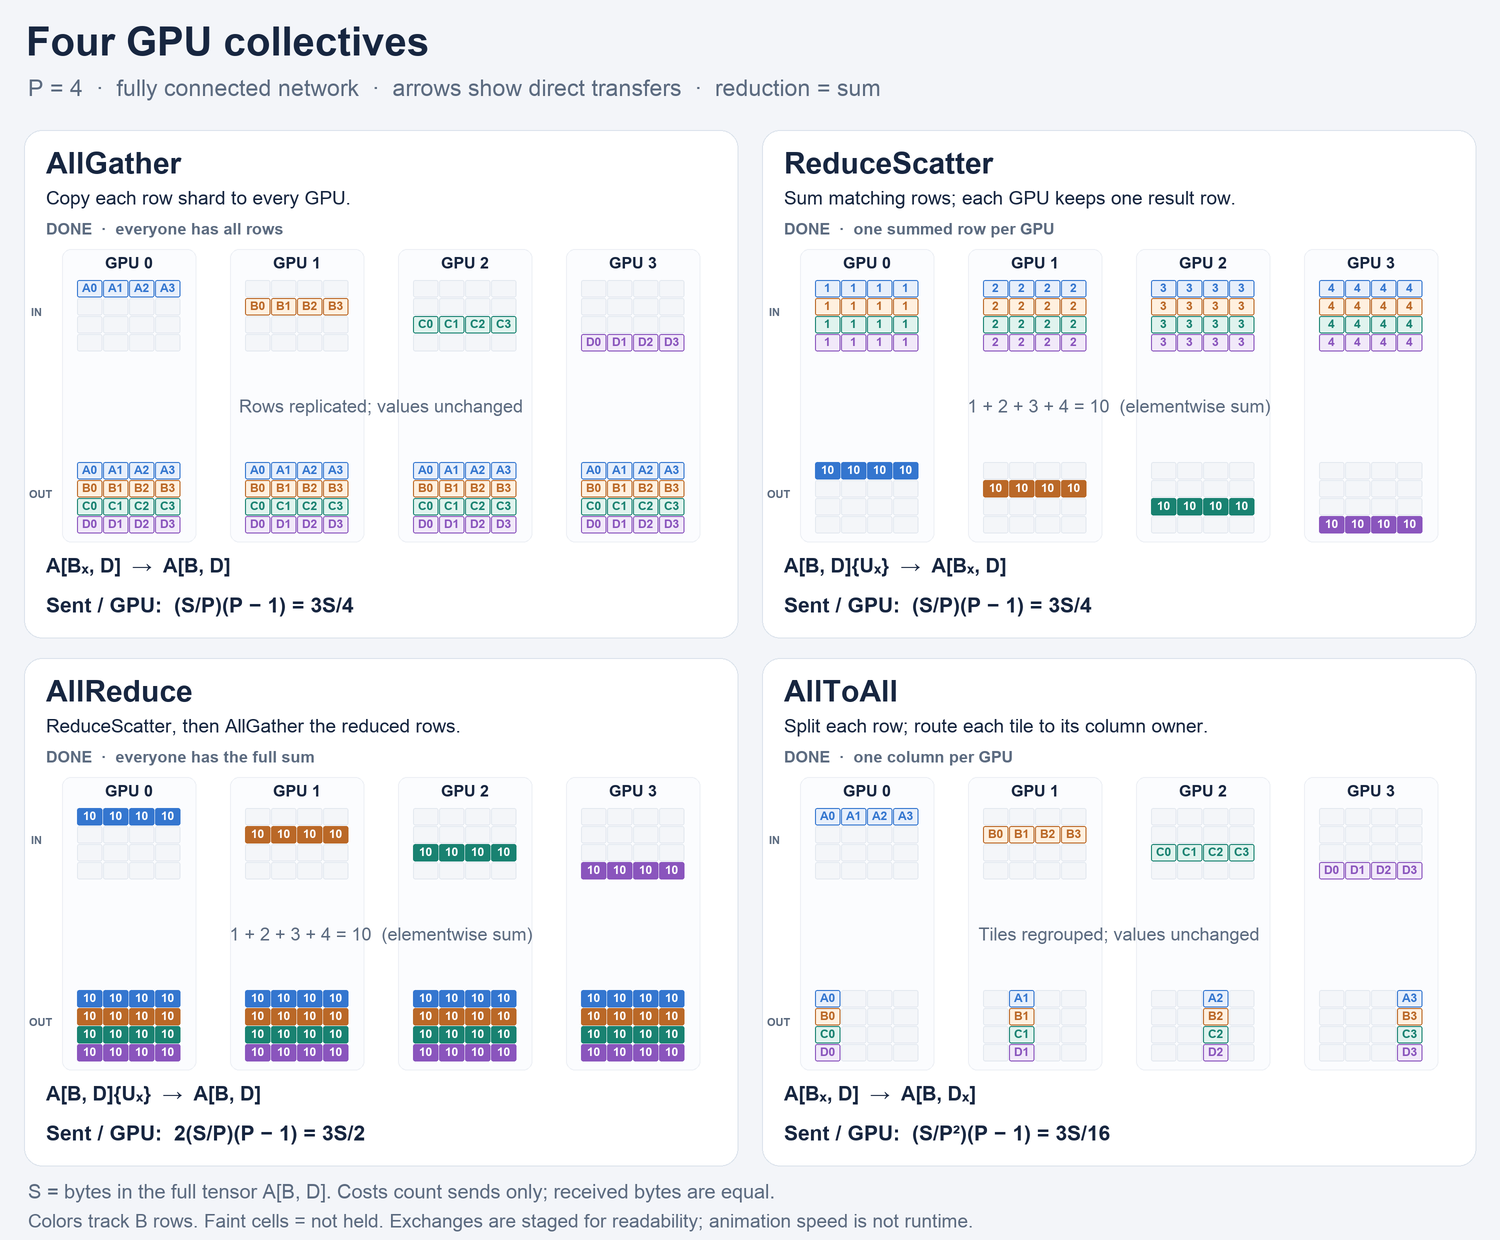
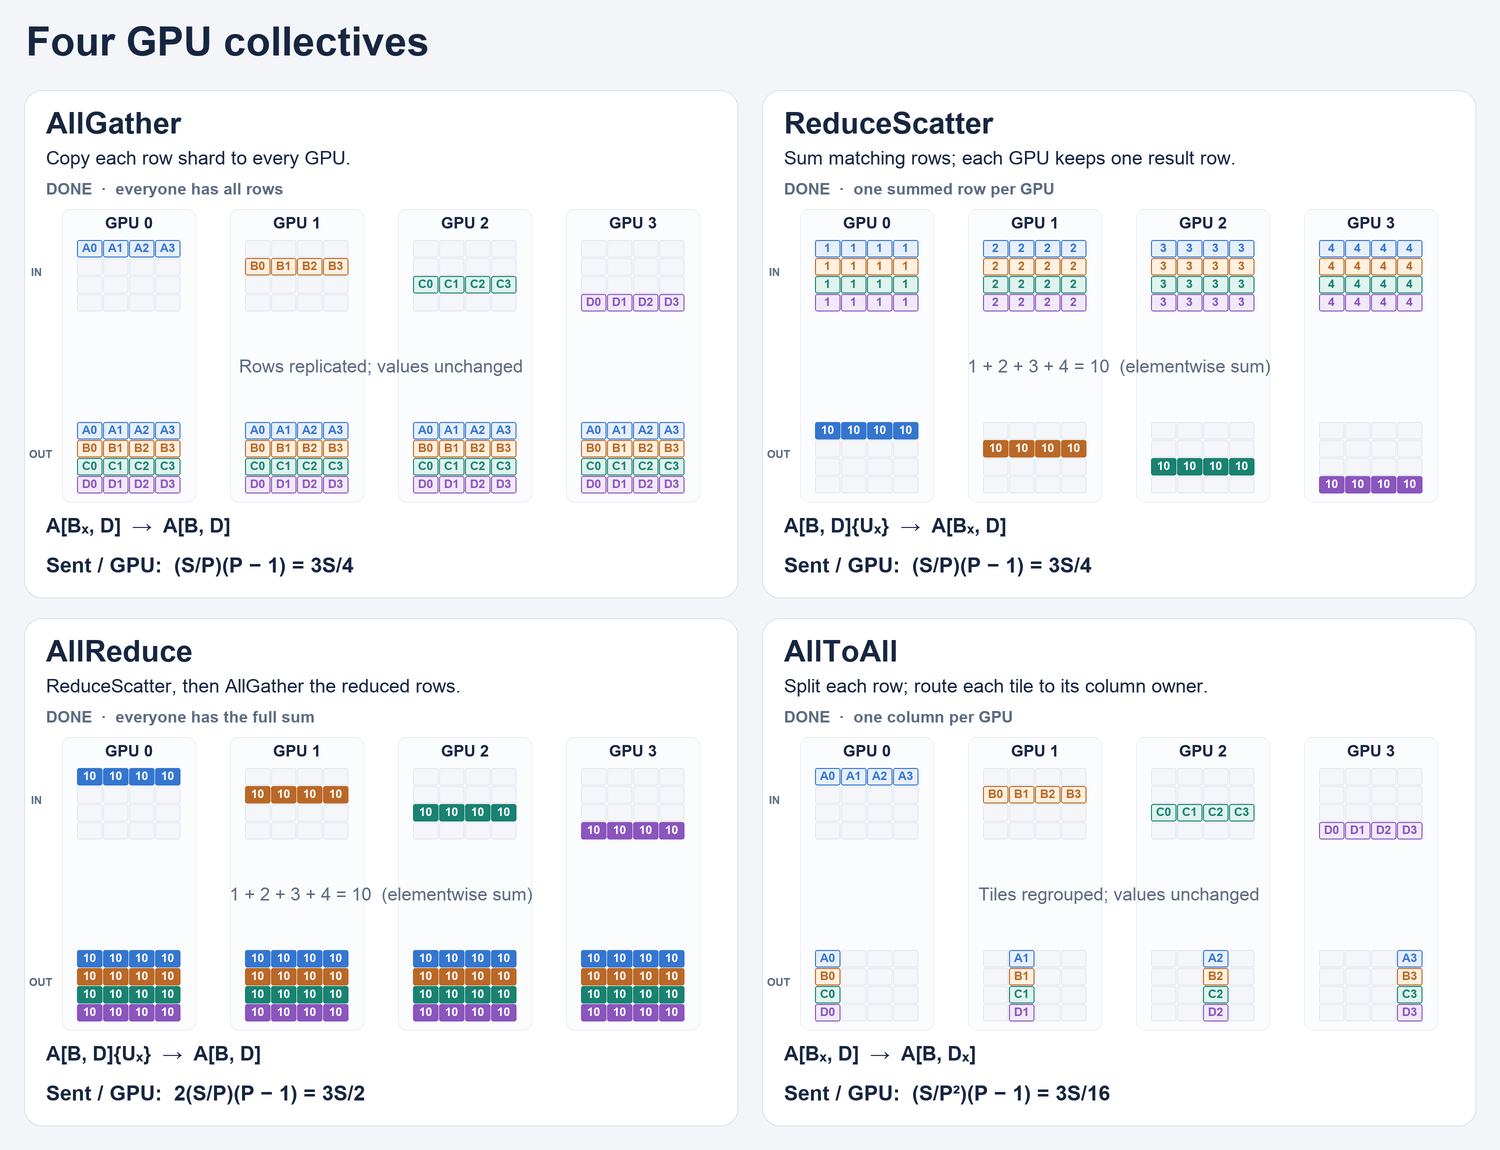
Add Some Nice Diagrams

diff --git a/src/styles/global.css b/src/styles/global.css
@@ -446,14 +446,14 @@ sup a:hover {
 
 /* Deixis endnotes: compact references with hanging numbers. */
 .prose ol.deixis-notes {
-  margin: 1rem 0;
+  margin: 0.25rem 0 1rem;
   padding: 0;
   font-size: 0.9em;
-  line-height: 1.6;
+  line-height: 1.35;
 }
 
 .prose ol.deixis-notes > li {
-  margin: 0.5em 0;
+  margin: 0.15em 0;
   padding-left: 1.5em;
   text-indent: -1.5em;
 }

diff --git a/scripts/render_collective_gemms.py b/scripts/render_collective_gemms.py
@@ -1,0 +1,297 @@
+#!/usr/bin/env python3
+"""Animate four distinct tensor dataflows; requires Pillow >= 10.
+
+Weight-column gather, output-tile ring reduction, input-row fan-in, and
+receiver-pulled batch/sequence routing. Steps explain dependencies, not
+hardware timing. The article is intentionally not modified.
+"""
+from pathlib import Path
+import math
+from PIL import Image, ImageDraw
+from render_collective_primitives import BG, INK, LINE, MUTED, PALE, ROW, SCALE, arrow, box, line, text
+
+ROOT = Path(__file__).resolve().parents[1]
+OUT = ROOT / "content" / "img"
+W, H = 1440, 850
+HEADER_SHIFT = 32
+TITLES = ["AllGather → GEMM", "GEMM → ReduceScatter", "ReduceScatter → GEMM", "AllToAll → GEMM"]
+DURATIONS = [4.0, 5.0, 5.0, 4.0]
+
+
+def clamp(x):
+    return min(1, max(0, x))
+
+
+def label(d, xy, value, color=INK, size=18, center=False):
+    text(d, xy, value, size, color, bold=True, center=center)
+
+
+def tile(d, x, y, w, h, color, value, active=False, faint=False):
+    fill = "#f3f5f8" if faint else color if active else PALE[ROW.index(color)]
+    box(d, (x, y, x + w - 2, y + h - 2), fill, LINE if faint else color, radius=3)
+    text(d, (x + w / 2 - 1, y + (h - 17) / 2 - 1), value, 14,
+         "#99a4b3" if faint else "#ffffff" if active else color, bold=True, center=True)
+
+
+def matrix(d, x, y, rows, cols, values, color_axis="row", highlight=None, cw=36, ch=29):
+    for r in range(rows):
+        for c in range(cols):
+            color = ROW[(r if color_axis == "row" else c) % 4]
+            value = values.get((r, c))
+            tile(d, x + c * cw, y + r * ch, cw, ch, color,
+                 "" if value is None else str(value),
+                 active=highlight is not None and (r if color_axis == "row" else c) == highlight and value is not None,
+                 faint=value is None)
+
+
+def fixed_matrix(d, x, y, rows, cols, value, cw=36, ch=29):
+    for r in range(rows):
+        for c in range(cols):
+            left, top = x + c * cw, y + r * ch
+            box(d, (left, top, left + cw - 2, top + ch - 2), "#e9edf3", "#bac5d3", radius=3)
+            text(d, (left + cw / 2 - 1, top + (ch - 17) / 2 - 1), value, 14, MUTED, bold=True, center=True)
+
+
+def dashed_arrow(d, start, end, color):
+    dx, dy = end[0] - start[0], end[1] - start[1]
+    length = math.hypot(dx, dy)
+    for s in range(0, int(length) - 10, 16):
+        a, b = s / length, min(s + 8, length - 10) / length
+        line(d, [(start[0] + dx * a, start[1] + dy * a),
+                 (start[0] + dx * b, start[1] + dy * b)], color, 2)
+    arrow(d, (end[0] - dx * 12 / length, end[1] - dy * 12 / length), end, color)
+
+
+def packet(d, start, end, progress, value, color, w=112, h=27):
+    u = clamp(progress)
+    u = u * u * (3 - 2 * u)
+    x = start[0] + (end[0] - start[0]) * u
+    y = start[1] + (end[1] - start[1]) * u
+    box(d, (x - w / 2 - 3, y - h / 2 - 3, x + w / 2 + 3, y + h / 2 + 3), "#ffffff", radius=5)
+    box(d, (x - w / 2, y - h / 2, x + w / 2, y + h / 2), color, radius=4)
+    text(d, (x, y - 10), value, 15, "#ffffff", bold=True, center=True)
+
+
+def status(d, first):
+    box(d, (48, 784, 1392, 840), "#edf2f9", radius=10)
+    label(d, (67, 795), first, size=21)
+
+
+def gemm_badge(d, x, y, message, progress):
+    box(d, (x, y, x + 196, y + 61), "#fff4e8", ROW[1], radius=8)
+    label(d, (x + 98, y + 8), message, ROW[1], 18, True)
+    box(d, (x + 12, y + 44, x + 184, y + 49), "#ecd8c0", radius=2)
+    if progress > 0:
+        box(d, (x + 12, y + 44, x + 12 + 172 * clamp(progress), y + 49), ROW[1], radius=2)
+
+
+def allgather_gemm(d, t):
+    j = min(3, int(t))
+    frac = t % 1 if t < 4 else 1
+    for g, sx in enumerate([540, 865, 1190], 1):
+        box(d, (sx - 104, 282, sx + 104, 391), "#fbfcfe", LINE, radius=8)
+        label(d, (sx, 292), "GPU {} owns B{}".format(g, g), center=True)
+        for r in range(4):
+            tile(d, sx - 50, 325 + r * 12, 100, 12, ROW[g], "")
+    box(d, (50, 440, 1390, 752), "#fbfcfe", LINE, radius=12)
+    label(d, (72, 453), "GPU 0", size=20)
+    label(d, (177, 504), "A local", center=True)
+    fixed_matrix(d, 105, 541, 2, 4, "a", cw=36, ch=43)
+    label(d, (293, 566), "×", size=32)
+    label(d, (503, 497), "B cache", center=True)
+    matrix(d, 431, 530, 4, 4, {(r, c): "b" + str(c) for r in range(4) for c in range(4) if c <= min(3, int(t))},
+           color_axis="col", highlight=j if t < 4 else None)
+    label(d, (177, 647), "[B_0, D]", center=True)
+    label(d, (503, 668), "[D, F] — growing by columns", center=True)
+    arrow(d, (615, 581), (702, 581), MUTED)
+    gemm_badge(d, 710, 551, "GEMM C" + str(j) if t < 4 else "GEMM finished", frac)
+    arrow(d, (918, 581), (998, 581), MUTED)
+    label(d, (1134, 504), "C local", center=True)
+    matrix(d, 1034, 541, 2, 4, {(r, c): "c" + str(c) for r in range(2) for c in range(4) if c < int(t)},
+           color_axis="col", cw=50, ch=43)
+    if t < 4:
+        for r in range(2):
+            box(d, (1034 + j * 50, 541 + r * 43, 1082 + j * 50, 582 + r * 43), None, ROW[j], radius=3, width=3)
+    label(d, (1134, 647), "[B_0, F] — new columns", center=True)
+    if j < 3 and t < 4:
+        g = j + 1
+        start, end = ([540, 865, 1190][g - 1], 390), (431 + g * 36 + 18, 522)
+        arrow(d, start, end, ROW[g])
+        packet(d, start, end, frac, "B{}: D × F{}".format(g, g), ROW[g])
+    status(d, "Compute C{} from B{}{}".format(j, j, " while B{} arrives.".format(j + 1) if j < 3 and t < 4 else "."))
+
+
+RING_POS = [(95, 295), (1010, 295), (1010, 584), (95, 584)]
+RING_PATHS = [((426, 375), (1004, 375)), ((1173, 471), (1173, 578)),
+              ((1004, 664), (426, 664)), ((258, 578), (258, 471))]
+
+
+def ring_value(gpu, hop):
+    return sum((gpu - k) % 4 + 1 for k in range(hop + 1))
+
+
+def gemm_reducescatter(d, t):
+    col = min(3, int(t))
+    for g, (x, y) in enumerate(RING_POS):
+        box(d, (x, y, x + 326, y + 176), "#fbfcfe", LINE, radius=10)
+        label(d, (x + 15, y + 10), "GPU {}: D-shard {}".format(g, g), size=18)
+        text(d, (x + 16, y + 40), "local partial C", 15, MUTED)
+        matrix(d, x + 16, y + 64, 4, 4,
+               {(r, c): g + 1 for r in range(4) for c in range(4) if t >= c + 1}, cw=30, ch=20)
+        text(d, (x + 171, y + 40), "summed row r" + str(g), 15, MUTED)
+        for c in range(4):
+            done = t >= c + 1.9
+            tile(d, x + 170 + c * 34, y + 88, 34, 29, ROW[g], "10" if done else "", active=done, faint=not done)
+        text(d, (x + 16, y + 150), "GEMM col {}{}".format(col, " running" if t < 4 else " finished"), 15, ROW[1], bold=True)
+    for start, end in RING_PATHS:
+        arrow(d, start, end, "#b5c2d4")
+    active = 1 <= t < 4.9 and (t - 1) % 1 < .9
+    if active:
+        sent_col = min(3, int(t - 1))
+        phase = (t - 1) % 1
+        hop = min(2, int(phase / .3))
+        p = (phase % .3) / .3
+        for g, (start, end) in enumerate(RING_PATHS):
+            owner = (g - hop - 1) % 4
+            packet(d, start, end, p, "r{},t{}: {}".format(owner, sent_col, ring_value(g, hop)), ROW[owner], w=132)
+        label(d, (720, 435), "Column {}: ring hop {}/3".format(sent_col, hop + 1), size=23, center=True)
+        text(d, (720, 477), "Each receiver adds its own partial.", 20, MUTED, center=True)
+        text(d, (720, 514), "1 + 2 + 3 + 4 = 10", 23, INK, bold=True, center=True)
+    else:
+        label(d, (720, 435), "Compute first, then launch each tile", size=22, center=True)
+        text(d, (720, 483), "Finished rows stay with their owner.", 19, MUTED, center=True)
+    status(d, "Stream partial outputs while GEMM computes the next column of tiles.")
+
+
+def reducescatter_gemm(d, t):
+    row = min(3, int(t))
+    frac = t % 1 if t < 4 else 1
+    for g in range(4):
+        x = 63 + 340 * g
+        box(d, (x, 284, x + 260, 389), "#fbfcfe", LINE, radius=8)
+        label(d, (x + 130, 294), "GPU {}{}".format(g, " (local)" if g == 0 else ""), center=True)
+        for c in range(4):
+            tile(d, x + 40 + c * 45, 338, 45, 30, ROW[row], str(g + 1))
+    label(d, (65, 418), "GPU 0 input T{}: peer contributions".format(row), size=19)
+    well = (383, 548)
+    count = 1 + int(frac >= .25) + int(frac >= .45) + int(frac >= .65)
+    if t >= 4:
+        count = 4
+    partial = sum(range(1, count + 1))
+    box(d, (267, 503, 499, 618), "#f0f5fc", ROW[row], radius=10)
+    label(d, (well[0], 514), "REDUCE T" + str(row), ROW[row], 21, True)
+    label(d, (well[0], 550), " + ".join(str(g) for g in range(1, count + 1)) + " = " + str(partial), size=22, center=True)
+    text(d, (well[0], 586), "elementwise across D", 16, MUTED, center=True)
+    if t < 4:
+        for g in range(1, 4):
+            start, end = (193 + 340 * g, 391), (well[0], 497)
+            arrow(d, start, end, ROW[row])
+            p = (frac - (g - 1) * .20) / .25
+            if 0 <= p < 1:
+                packet(d, start, end, p, "{} {} {} {}".format(g + 1, g + 1, g + 1, g + 1), ROW[row])
+    arrow(d, (509, 558), (665, 558), ROW[row])
+    label(d, (749, 456), "A reduced", center=True)
+    matrix(d, 679, 495, 4, 4, {(r, c): 10 for r in range(4) for c in range(4) if t >= r + .8},
+           highlight=int(t) - 1 if 1 <= t < 5 else None, cw=35, ch=33)
+    label(d, (868, 543), "×", size=30)
+    label(d, (960, 456), "B replicated", center=True)
+    fixed_matrix(d, 924, 495, 4, 2, "b", cw=36, ch=33)
+    arrow(d, (1013, 558), (1123, 558), MUTED)
+    label(d, (1210, 456), "C local rows", center=True)
+    matrix(d, 1164, 495, 4, 2, {(r, c): "c" + str(r) for r in range(4) for c in range(2) if t >= r + 2}, cw=46, ch=33)
+    compute_row = int(t) - 1
+    if 0 <= compute_row < 4:
+        gemm_badge(d, 840, 675, "GEMM T" + str(compute_row), t % 1)
+    label(d, (1050, 751), "Only GPU 0's batch shard is expanded here.", size=17, color=MUTED, center=True)
+    status(d, "Reduce input T{}{}".format(row, " while GEMM consumes already-reduced T{}.".format(compute_row) if 0 <= compute_row < 4 and t < 4 else " before GEMM uses it."))
+
+
+def alltoall_gemm(d, t):
+    j = min(3, int(t))
+    frac = t % 1 if t < 4 else 1
+    for g in range(4):
+        x = 63 + 340 * g
+        box(d, (x, 282, x + 260, 457), "#fbfcfe", LINE, radius=8)
+        label(d, (x + 130, 291), "GPU {} owns S{}".format(g, g), center=True)
+        for b in range(4):
+            tile(d, x + 54, 326 + b * 28, 152, 28, ROW[g], "B{}, S{}".format(b, g), active=b == 0, faint=b != 0)
+    box(d, (50, 532, 1390, 747), "#fbfcfe", LINE, radius=10)
+    label(d, (69, 543), "GPU 0 · B_0 owner", size=20)
+    label(d, (235, 582), "A[B_0, S, D]", center=True)
+    for s in range(4):
+        ready = s <= int(t)
+        tile(d, 154, 615 + s * 26, 162, 26, ROW[s], "B0, S" + str(s) if ready else "", active=s == j and t < 4, faint=not ready)
+    arrow(d, (335, 665), (459, 665), MUTED)
+    gemm_badge(d, 470, 630, "GEMM S" + str(j) if t < 4 else "GEMM finished", frac)
+    label(d, (733, 647), "×", size=30)
+    label(d, (848, 582), "B[D, F]", center=True)
+    fixed_matrix(d, 812, 615, 4, 2, "b", cw=36, ch=26)
+    arrow(d, (916, 665), (1052, 665), MUTED)
+    label(d, (1190, 582), "C[B_0, S, F]", center=True)
+    matrix(d, 1144, 615, 4, 2, {(r, c): "S" + str(r) for r in range(4) for c in range(2) if r < int(t)}, cw=46, ch=26)
+    if j < 3 and t < 4:
+        g = j + 1
+        start, end = (193 + g * 340, 458), (335, 606)
+        dashed_arrow(d, end, start, MUTED)
+        if frac < .22:
+            packet(d, end, start, frac / .22, "pull B0,S" + str(g), MUTED, w=126)
+        else:
+            arrow(d, start, end, ROW[g])
+            packet(d, start, end, (frac - .22) / .78, "A[B0,S{},D]".format(g), ROW[g], w=140)
+        label(d, (193, 478), "prefetch S{}".format(g), ROW[g], 18, True)
+        label(d, (193, 502), "compute S{}".format(j), ROW[j], 18, True)
+    status(d, "Receiver-led: compute one S chunk while pulling the next into a free buffer.")
+
+
+def frame(scene, t):
+    im = Image.new("RGB", (W * SCALE, (H + HEADER_SHIFT) * SCALE), BG)
+    d = ImageDraw.Draw(im)
+    label(d, (26, 18), "Collective GEMMs", size=34)
+    for i, tab in enumerate(["1  Gather weights", "2  Stream outputs", "3  Reduce inputs", "4  Pull routed inputs"]):
+        x = 25 + i * 353
+        box(d, (x, 111, x + 335, 151), INK if scene == i else "#e5eaf2", radius=7)
+        text(d, (x + 167, 120), tab, 18, "#ffffff" if scene == i else MUTED, bold=True, center=True)
+    box(d, (24, 168, 1416, 857), "#ffffff", LINE, radius=15)
+    label(d, (47, 182), TITLES[scene], size=31)
+    [allgather_gemm, gemm_reducescatter, reducescatter_gemm, alltoall_gemm][scene](d, t)
+    # Close unused header space while keeping the tensor diagrams together.
+    tabs_top = 111 - HEADER_SHIFT
+    compact = Image.new("RGB", (W * SCALE, H * SCALE), BG)
+    compact.paste(im.crop((0, 0, W * SCALE, tabs_top * SCALE)), (0, 0))
+    compact.paste(im.crop((0, 111 * SCALE, W * SCALE, (H + HEADER_SHIFT) * SCALE)), (0, tabs_top * SCALE))
+    return compact.resize((W, H), Image.Resampling.LANCZOS)
+
+
+def check_dataflow():
+    for receiver in range(4):
+        source = (receiver - 1) % 4
+        assert (source - 2 - 1) % 4 == receiver
+        assert ring_value(source, 2) + receiver + 1 == 10
+    assert all(r + .8 < r + 1 for r in range(4))
+
+
+def main():
+    check_dataflow()
+    OUT.mkdir(exist_ok=True)
+    posters = [frame(s, 1.5 if s != 1 else 2.45) for s in range(4)]
+    contact = Image.new("RGB", (W, H), BG)
+    for s, im in enumerate(posters):
+        contact.paste(im.resize((W // 2, H // 2), Image.Resampling.LANCZOS), ((s % 2) * (W // 2), (s // 2) * (H // 2)))
+    contact.save(OUT / "collective-gemms.png")
+    palette = contact.quantize(colors=256, method=Image.Quantize.MEDIANCUT)
+    frames, durations = [], []
+    for s, duration in enumerate(DURATIONS):
+        times = [(0, 1000)]
+        times.extend((i / 15, 100) for i in range(1, int(duration * 15) + 1))
+        times.append((duration, 1600))
+        for t, hold in times:
+            frames.append(frame(s, t).quantize(palette=palette, dither=Image.Dither.NONE))
+            durations.append(hold)
+        print("Rendered chapter {}/4".format(s + 1), flush=True)
+    path = OUT / "collective-gemms.gif"
+    frames[0].save(path, save_all=True, append_images=frames[1:], duration=durations, loop=0, optimize=True, disposal=1)
+    print("Saved {} ({:.2f} MB, {:.1f} s)".format(path, path.stat().st_size / 1e6, sum(durations) / 1000))
+
+
+if __name__ == "__main__":
+    main()

diff --git a/scripts/render_collective_primitives.py b/scripts/render_collective_primitives.py
@@ -15,7 +15,7 @@ from PIL import Image, ImageDraw, ImageFont
 
 ROOT = Path(__file__).resolve().parents[1]
 OUT = ROOT / "content" / "img"
-W, H, SCALE = 1500, 1240, 2
+W, H, SCALE = 1500, 1150, 2
 BG = "#f3f5f9"
 INK = "#172640"
 MUTED = "#5c6b80"
@@ -30,7 +30,7 @@ if not FONT_REG.exists():
     FONT_BOLD = Path("/usr/share/fonts/truetype/dejavu/DejaVuSans-Bold.ttf")
 
 FONTS = {}
-PANELS = [(24, 130), (762, 130), (24, 658), (762, 658)]
+PANELS = [(24, 90), (762, 90), (24, 618), (762, 618)]
 PW, PH = 714, 508
 CENTERS = [105, 273, 441, 609]
 CW, CH = 26, 18
@@ -232,11 +232,8 @@ def frame(t):
     im = Image.new("RGB", (W * SCALE, H * SCALE), BG)
     d = ImageDraw.Draw(im)
     text(d, (26, 19), "Four GPU collectives", 40, bold=True)
-    text(d, (28, 75), "P = 4  ·  fully connected network  ·  arrows show direct transfers  ·  reduction = sum", 23, MUTED)
     for op in range(4):
         panel(d, op, t)
-    text(d, (28, 1180), "S = bytes in the full tensor A[B, D]. Costs count sends only; received bytes are equal.", 20, MUTED)
-    text(d, (28, 1210), "Colors track B rows. Faint cells = not held. Exchanges are staged for readability; animation speed is not runtime.", 19, MUTED)
     return im.resize((W, H), Image.Resampling.LANCZOS)
 
 
@@ -276,10 +273,11 @@ def main():
                    duration=durations, loop=0, optimize=True, disposal=1)
     # A contact sheet exposes key intermediate states for visual review.
     times = [0, 2.5, 5.5, 8, 11, 16]
-    contact = Image.new("RGB", (1500, 1240), BG)
+    thumb_w, thumb_h = W // 3, H // 3
+    contact = Image.new("RGB", (W, 2 * thumb_h), BG)
     for i, t in enumerate(times):
-        small = frame(t).resize((500, 413), Image.Resampling.LANCZOS)
-        contact.paste(small, ((i % 3) * 500, (i // 3) * 620 + 35))
+        small = frame(t).resize((thumb_w, thumb_h), Image.Resampling.LANCZOS)
+        contact.paste(small, ((i % 3) * thumb_w, (i // 3) * thumb_h))
     contact.save("/tmp/collective-primitives-contact.png")
     print("Saved {} ({:.2f} MB)".format(target, target.stat().st_size / 1e6))
     print("Duration: {:.2f} seconds".format(sum(durations) / 1000))
